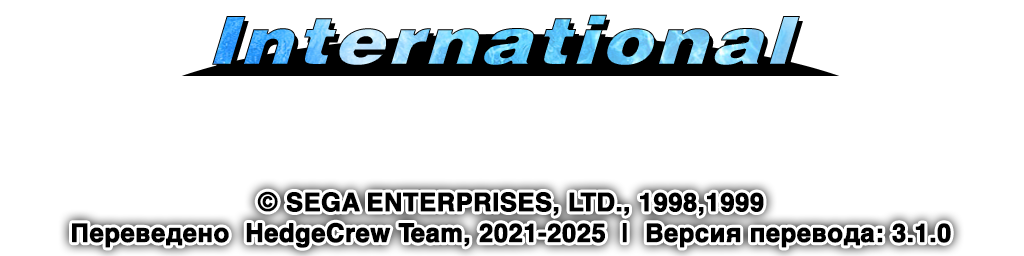
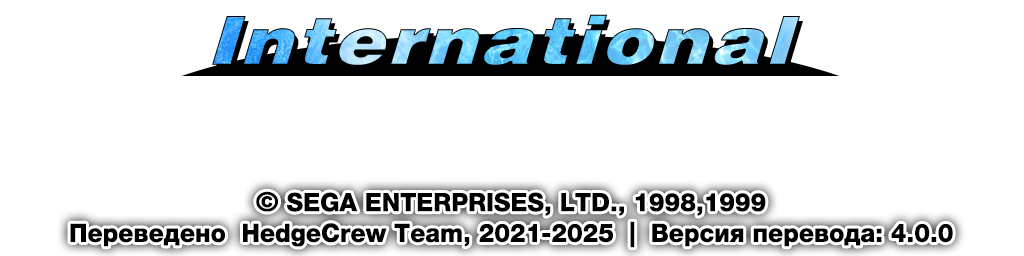
version update

Changed region(s): [[0.0625, 0.7188, 0.9375, 1.0]]

diff --git a/sadx-russian-mod/CustomSubTimings.cpp b/sadx-russian-mod/CustomSubTimings.cpp
@@ -3,8 +3,6 @@
 #include "SADXEventFunctions.h"
 #include "SADXEventList.h"
 #include "SADXEventVariables.h"
-#include "LoadedMods.h"
-#include "ModConfig.h"
 
 
 void SetCustomCutsceneTimings(const char* path, const HelperFunctions& helperFunctions)
